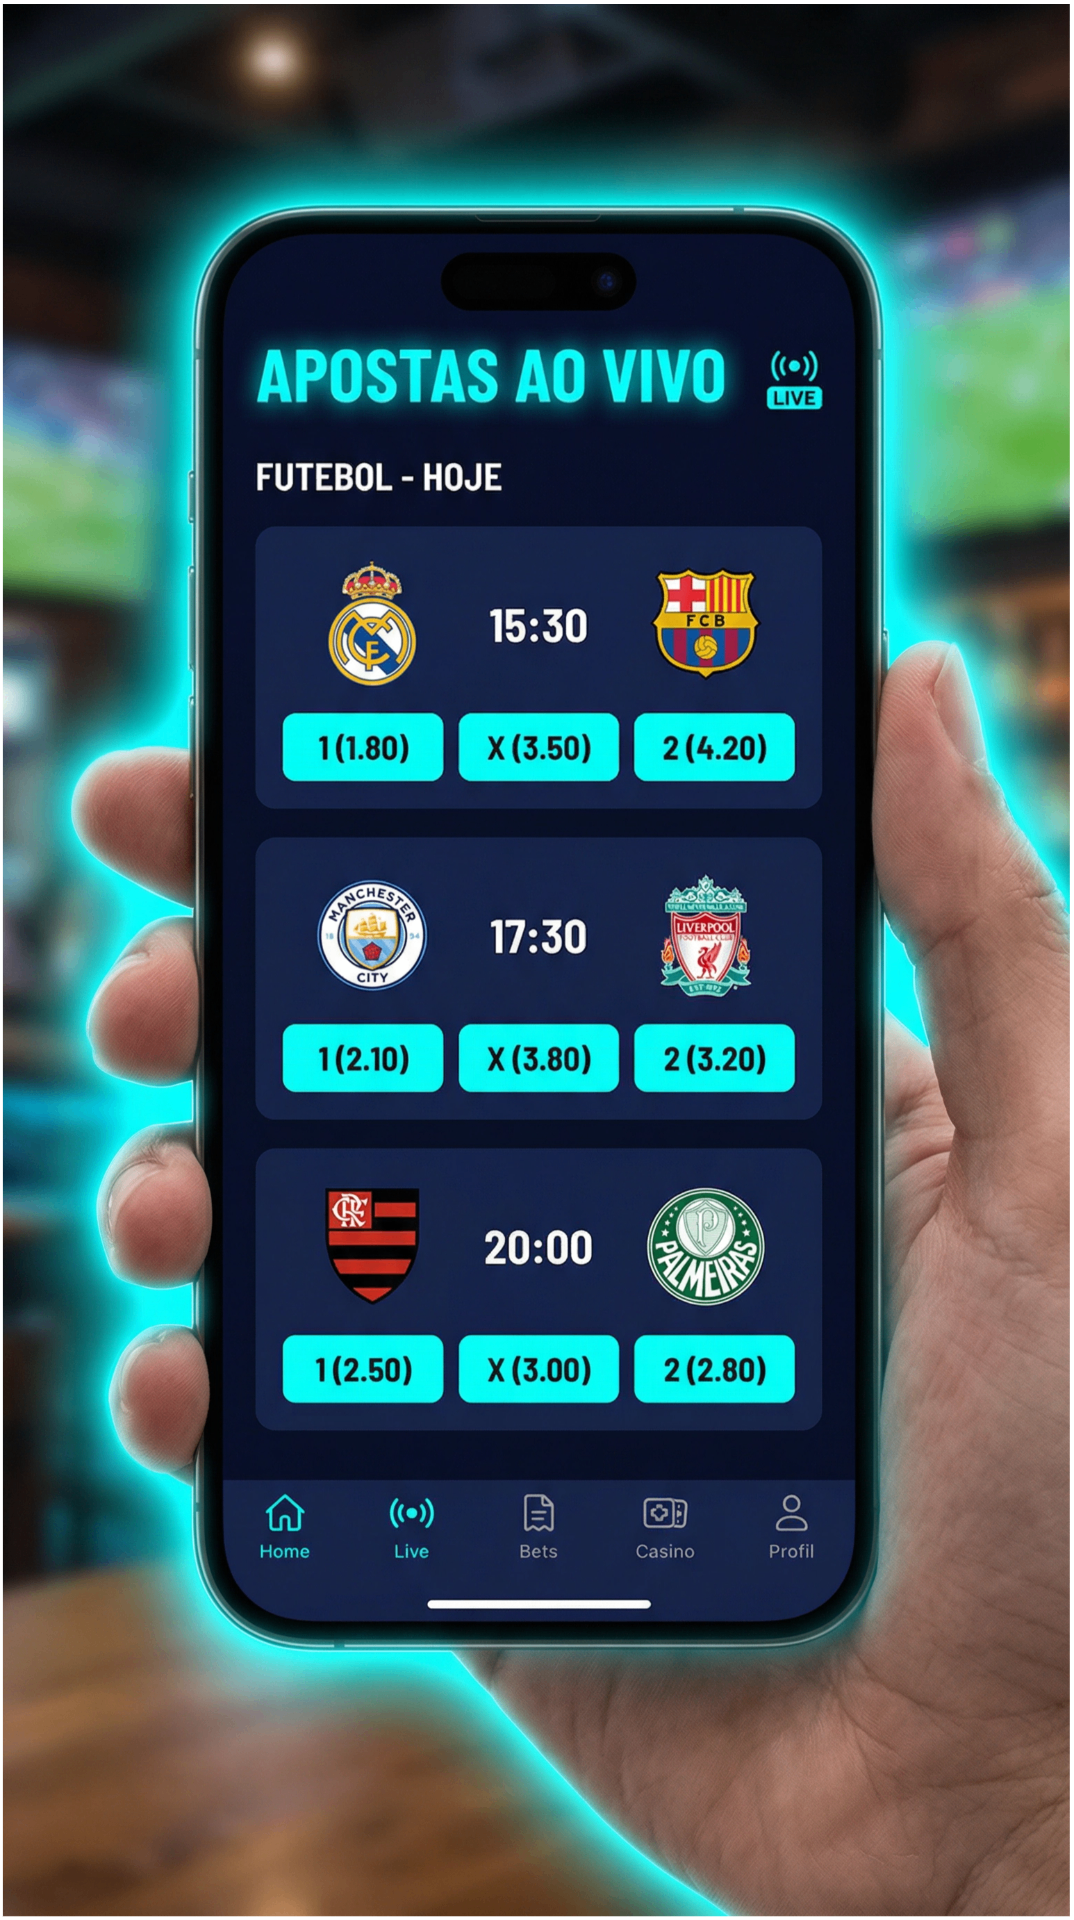
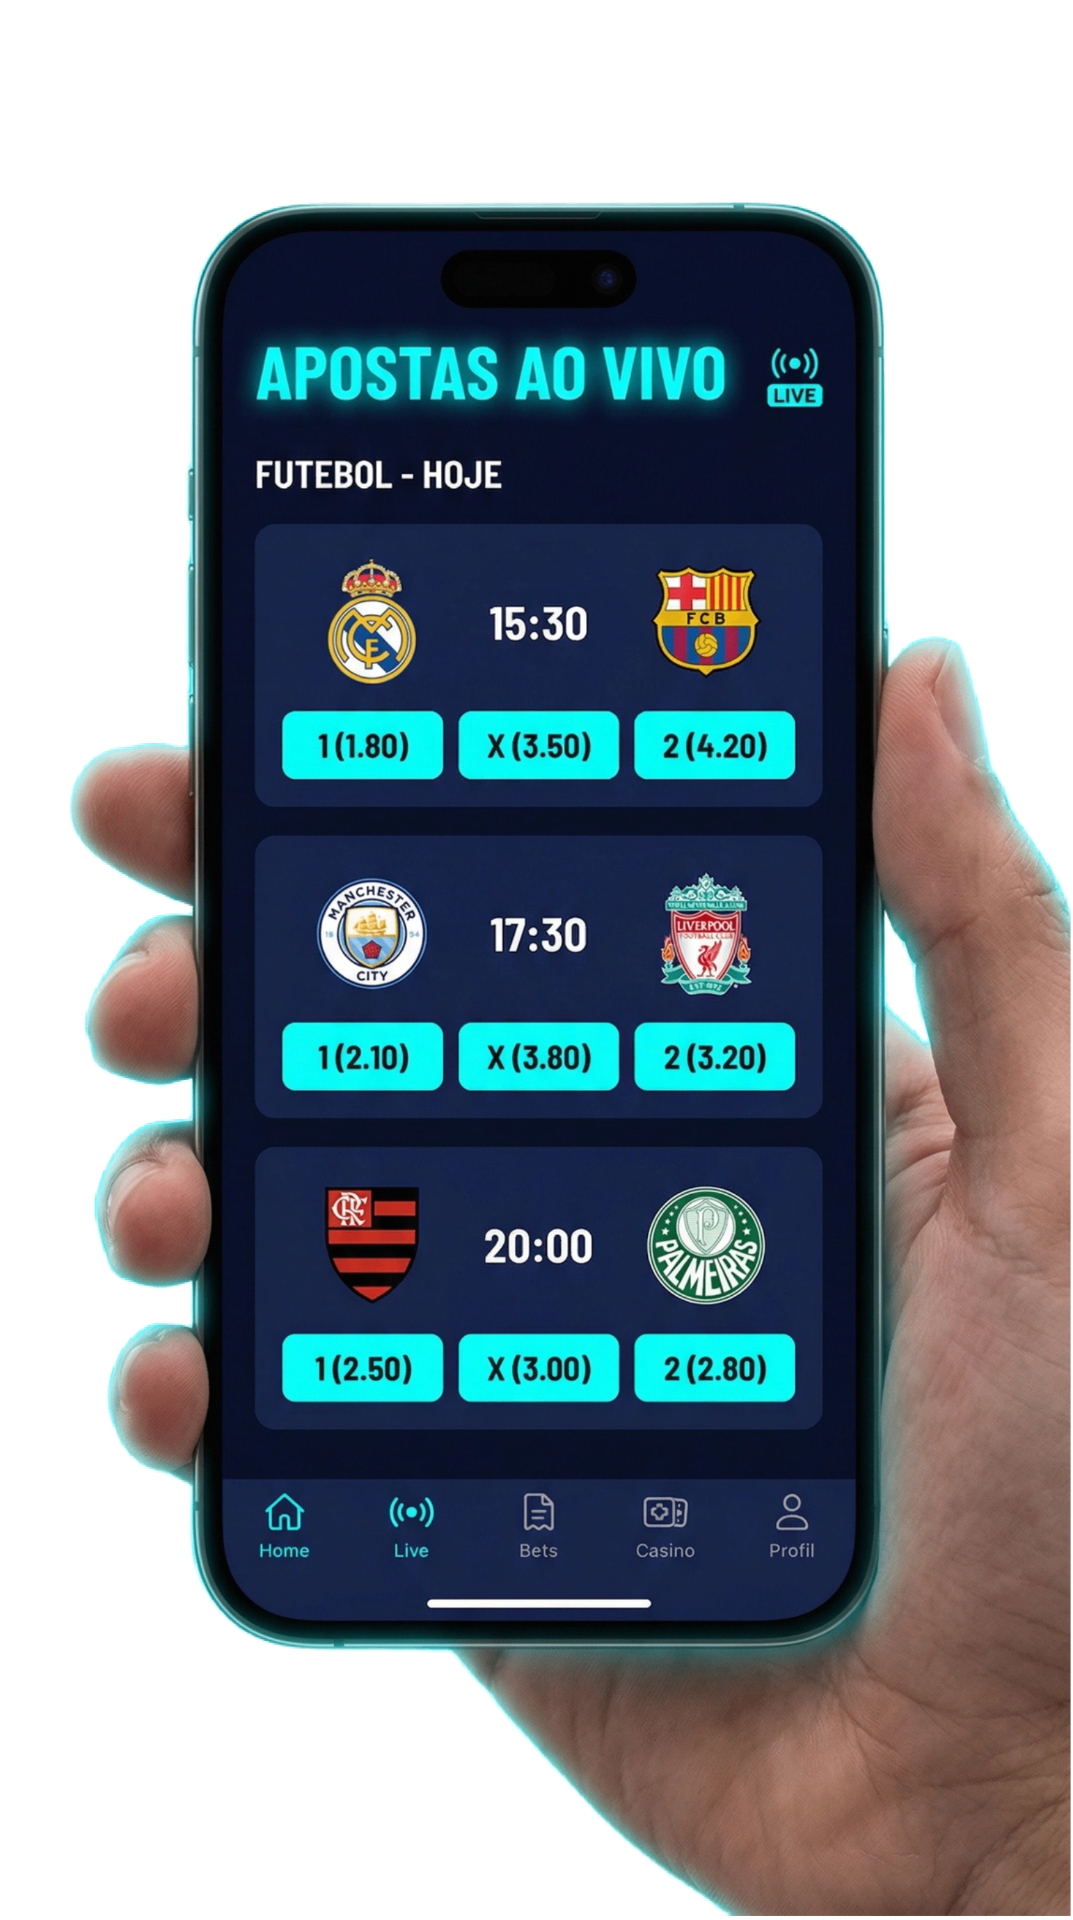
Changes

diff --git a/src/pages/Landing.tsx b/src/pages/Landing.tsx
@@ -506,7 +506,7 @@ export default function Landing() {
           </p>
 
           {/* Hero Phone Mockup Preview */}
-          <div className="relative max-w-sm mx-auto mb-10" style={{ perspective: '1000px' }}>
+          <div className="relative max-w-xs mx-auto mb-10" style={{ perspective: '1000px' }}>
             <div 
               className="relative transition-transform duration-500 hover:scale-105"
               style={{
@@ -521,7 +521,7 @@ export default function Landing() {
             >
               {/* Phone Frame */}
               <div 
-                className="relative w-[280px] h-[560px] sm:w-[300px] sm:h-[600px] mx-auto rounded-[40px] p-3 overflow-hidden"
+                className="relative w-[200px] h-[400px] sm:w-[220px] sm:h-[440px] mx-auto rounded-[32px] p-2 overflow-hidden"
                 style={{ 
                   background: 'linear-gradient(145deg, hsla(230, 50%, 20%, 1), hsla(230, 50%, 15%, 1))',
                   boxShadow: '0 25px 50px -12px rgba(0,0,0,0.5), 0 0 40px hsla(185, 100%, 50%, 0.2)',
@@ -529,10 +529,10 @@ export default function Landing() {
                 }}
               >
                 {/* Notch */}
-                <div className="absolute top-3 left-1/2 -translate-x-1/2 w-24 h-6 bg-background/80 rounded-full z-20" />
+                <div className="absolute top-2 left-1/2 -translate-x-1/2 w-16 h-4 bg-background/80 rounded-full z-20" />
                 
                 {/* Screen Content */}
-                <div className="relative w-full h-full rounded-[28px] overflow-hidden bg-card">
+                <div className="relative w-full h-full rounded-[24px] overflow-hidden bg-card">
                   <img 
                     src={step1Image} 
                     alt="EUGINE Dashboard" 
